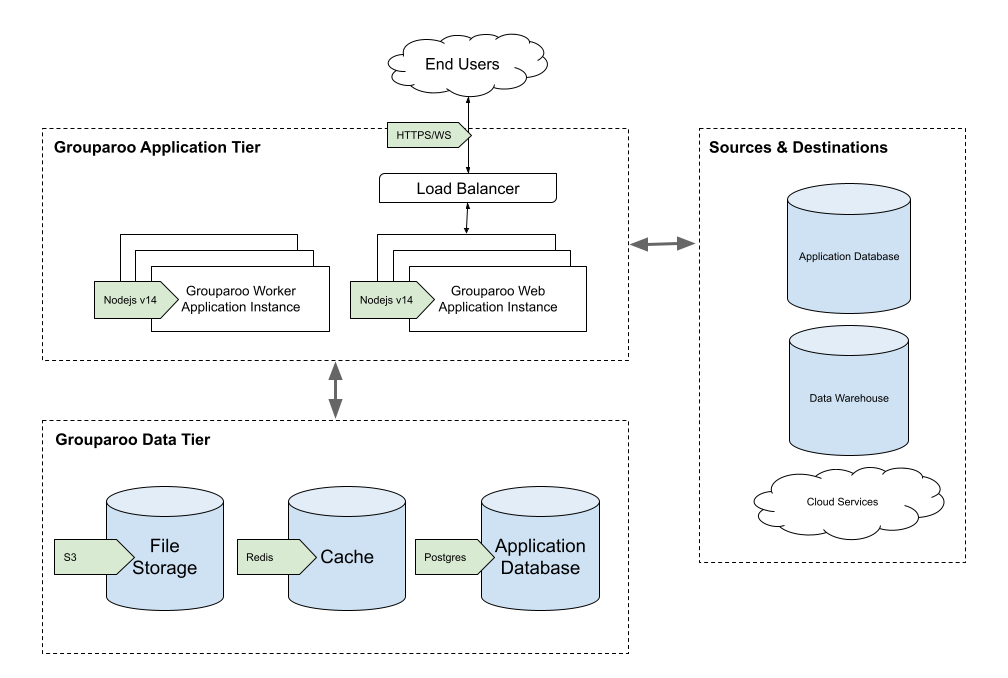
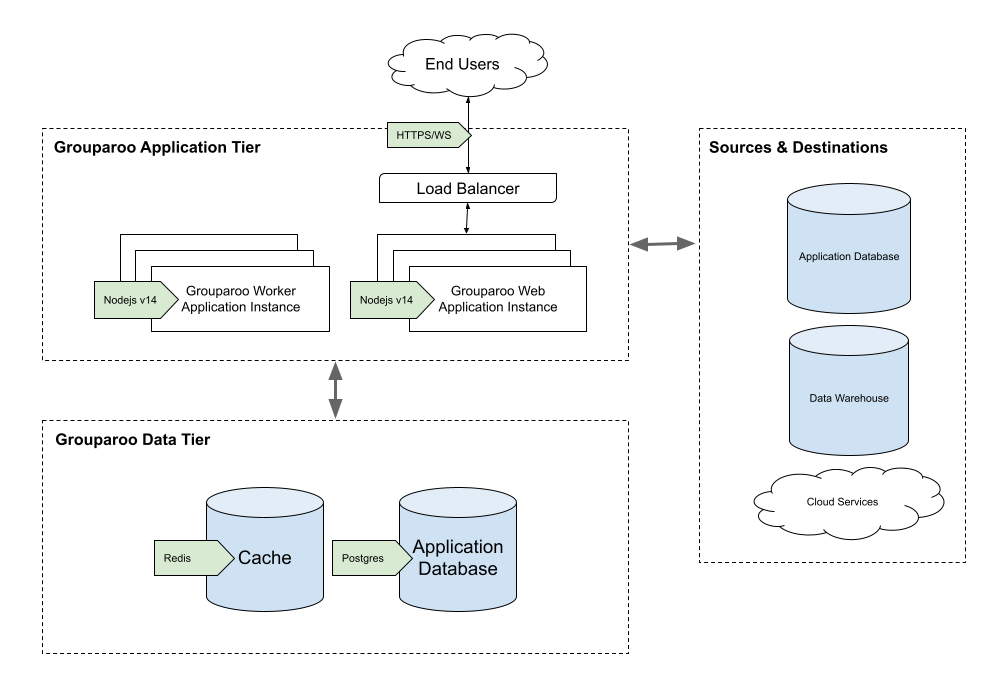
Remove S3 and File Storage

Changed region(s): [[0.0308, 0.7124, 0.6151, 0.9292]]

diff --git a/next-env.d.ts b/next-env.d.ts
@@ -1,0 +1,6 @@
+/// <reference types="next" />
+/// <reference types="next/types/global" />
+/// <reference types="next/image-types/global" />
+
+// NOTE: This file should not be edited
+// see https://nextjs.org/docs/basic-features/typescript for more information.
